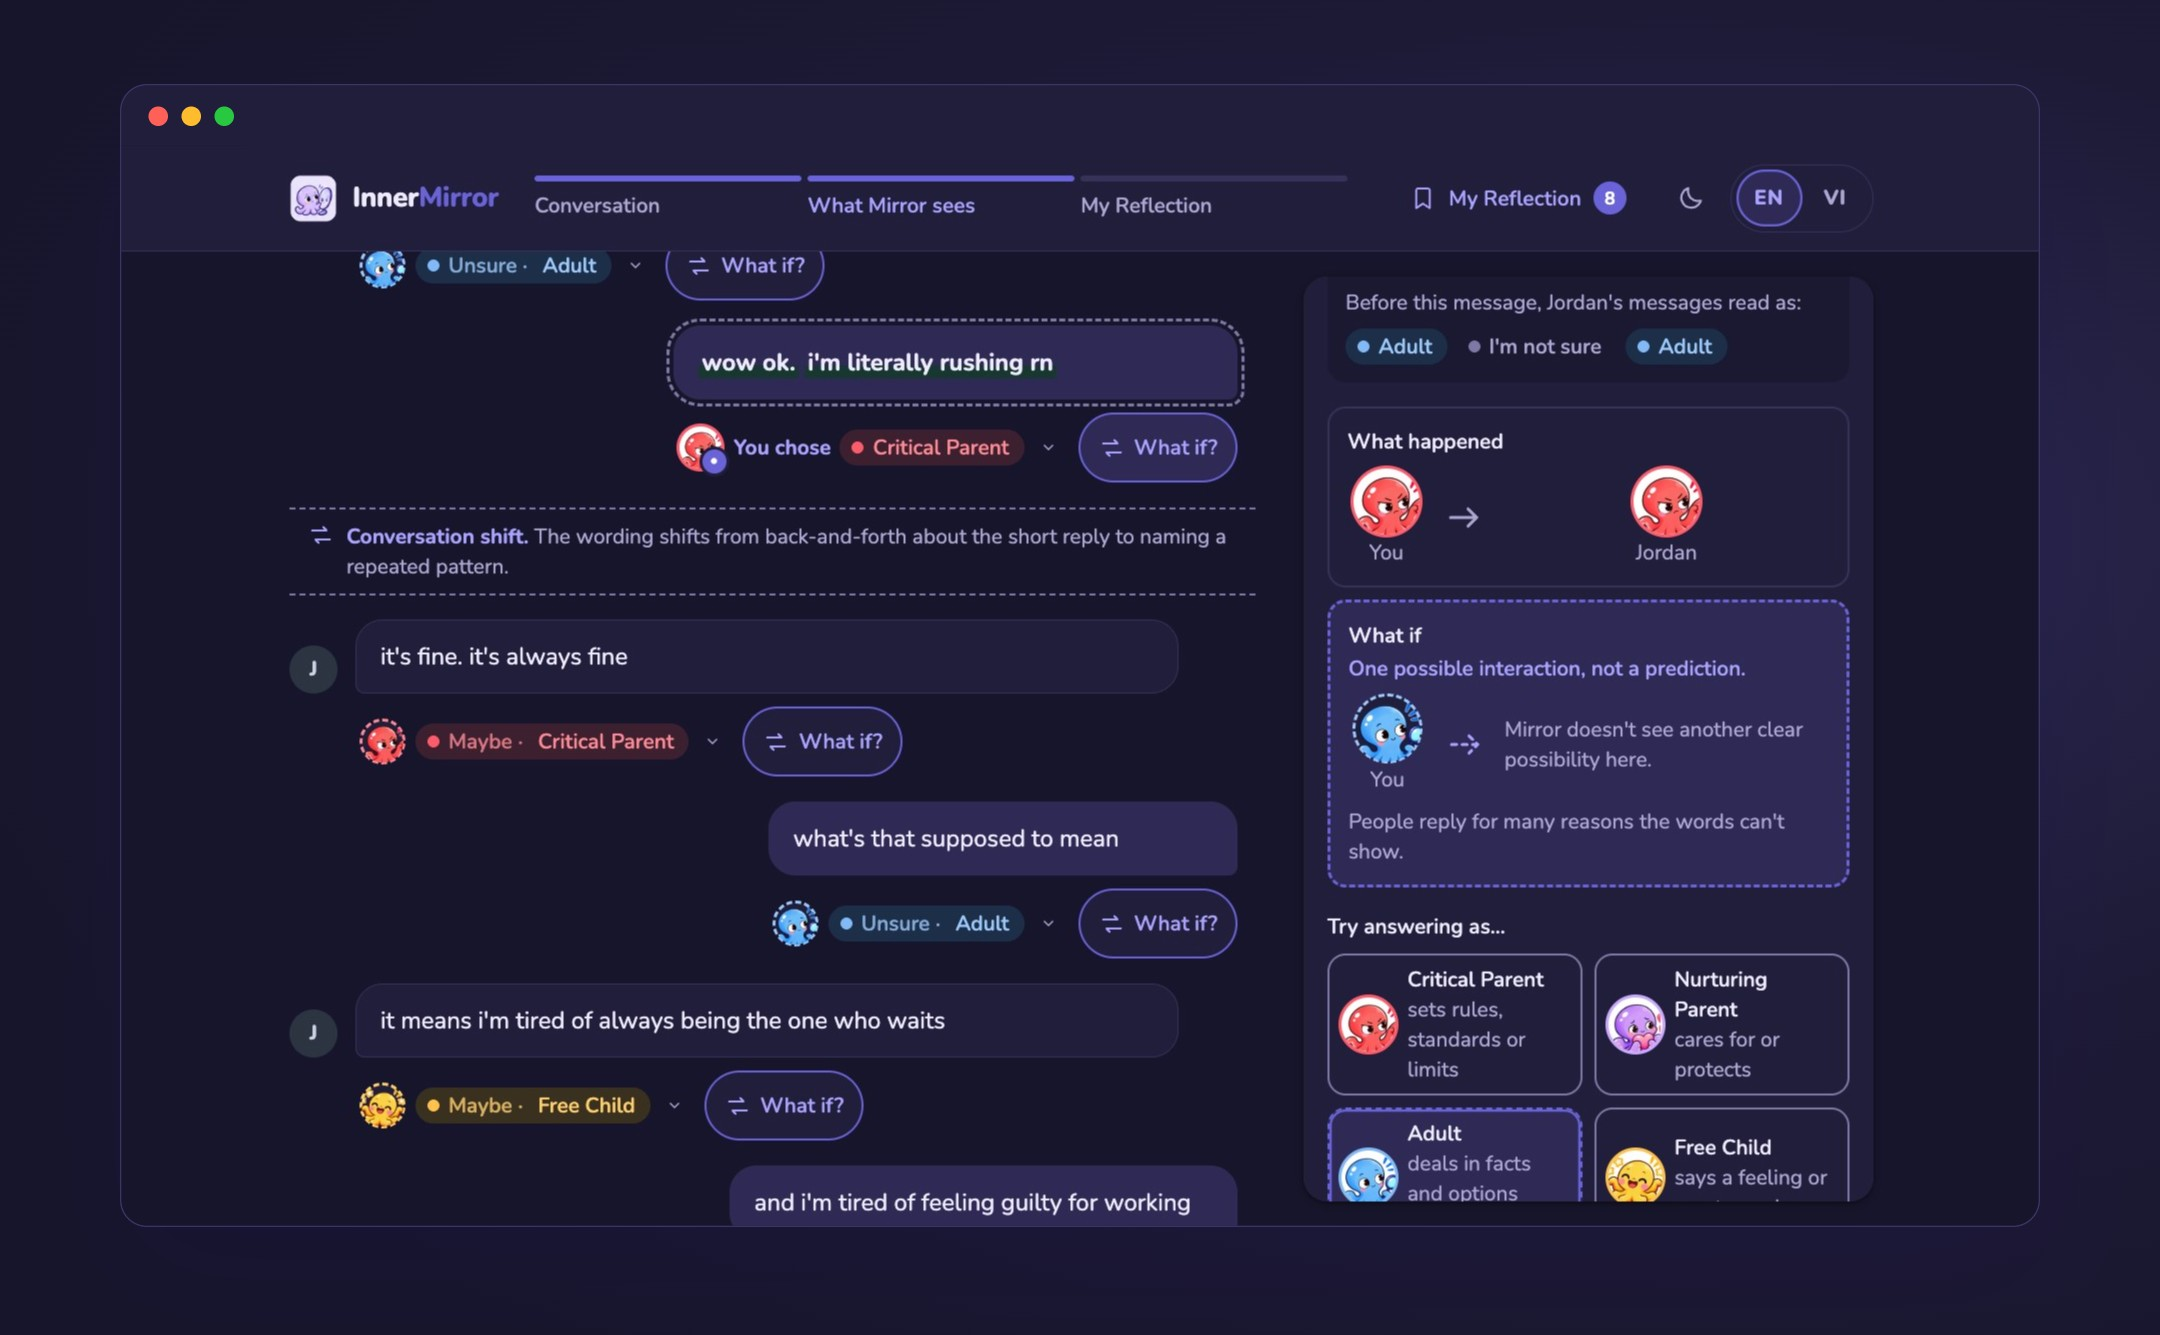
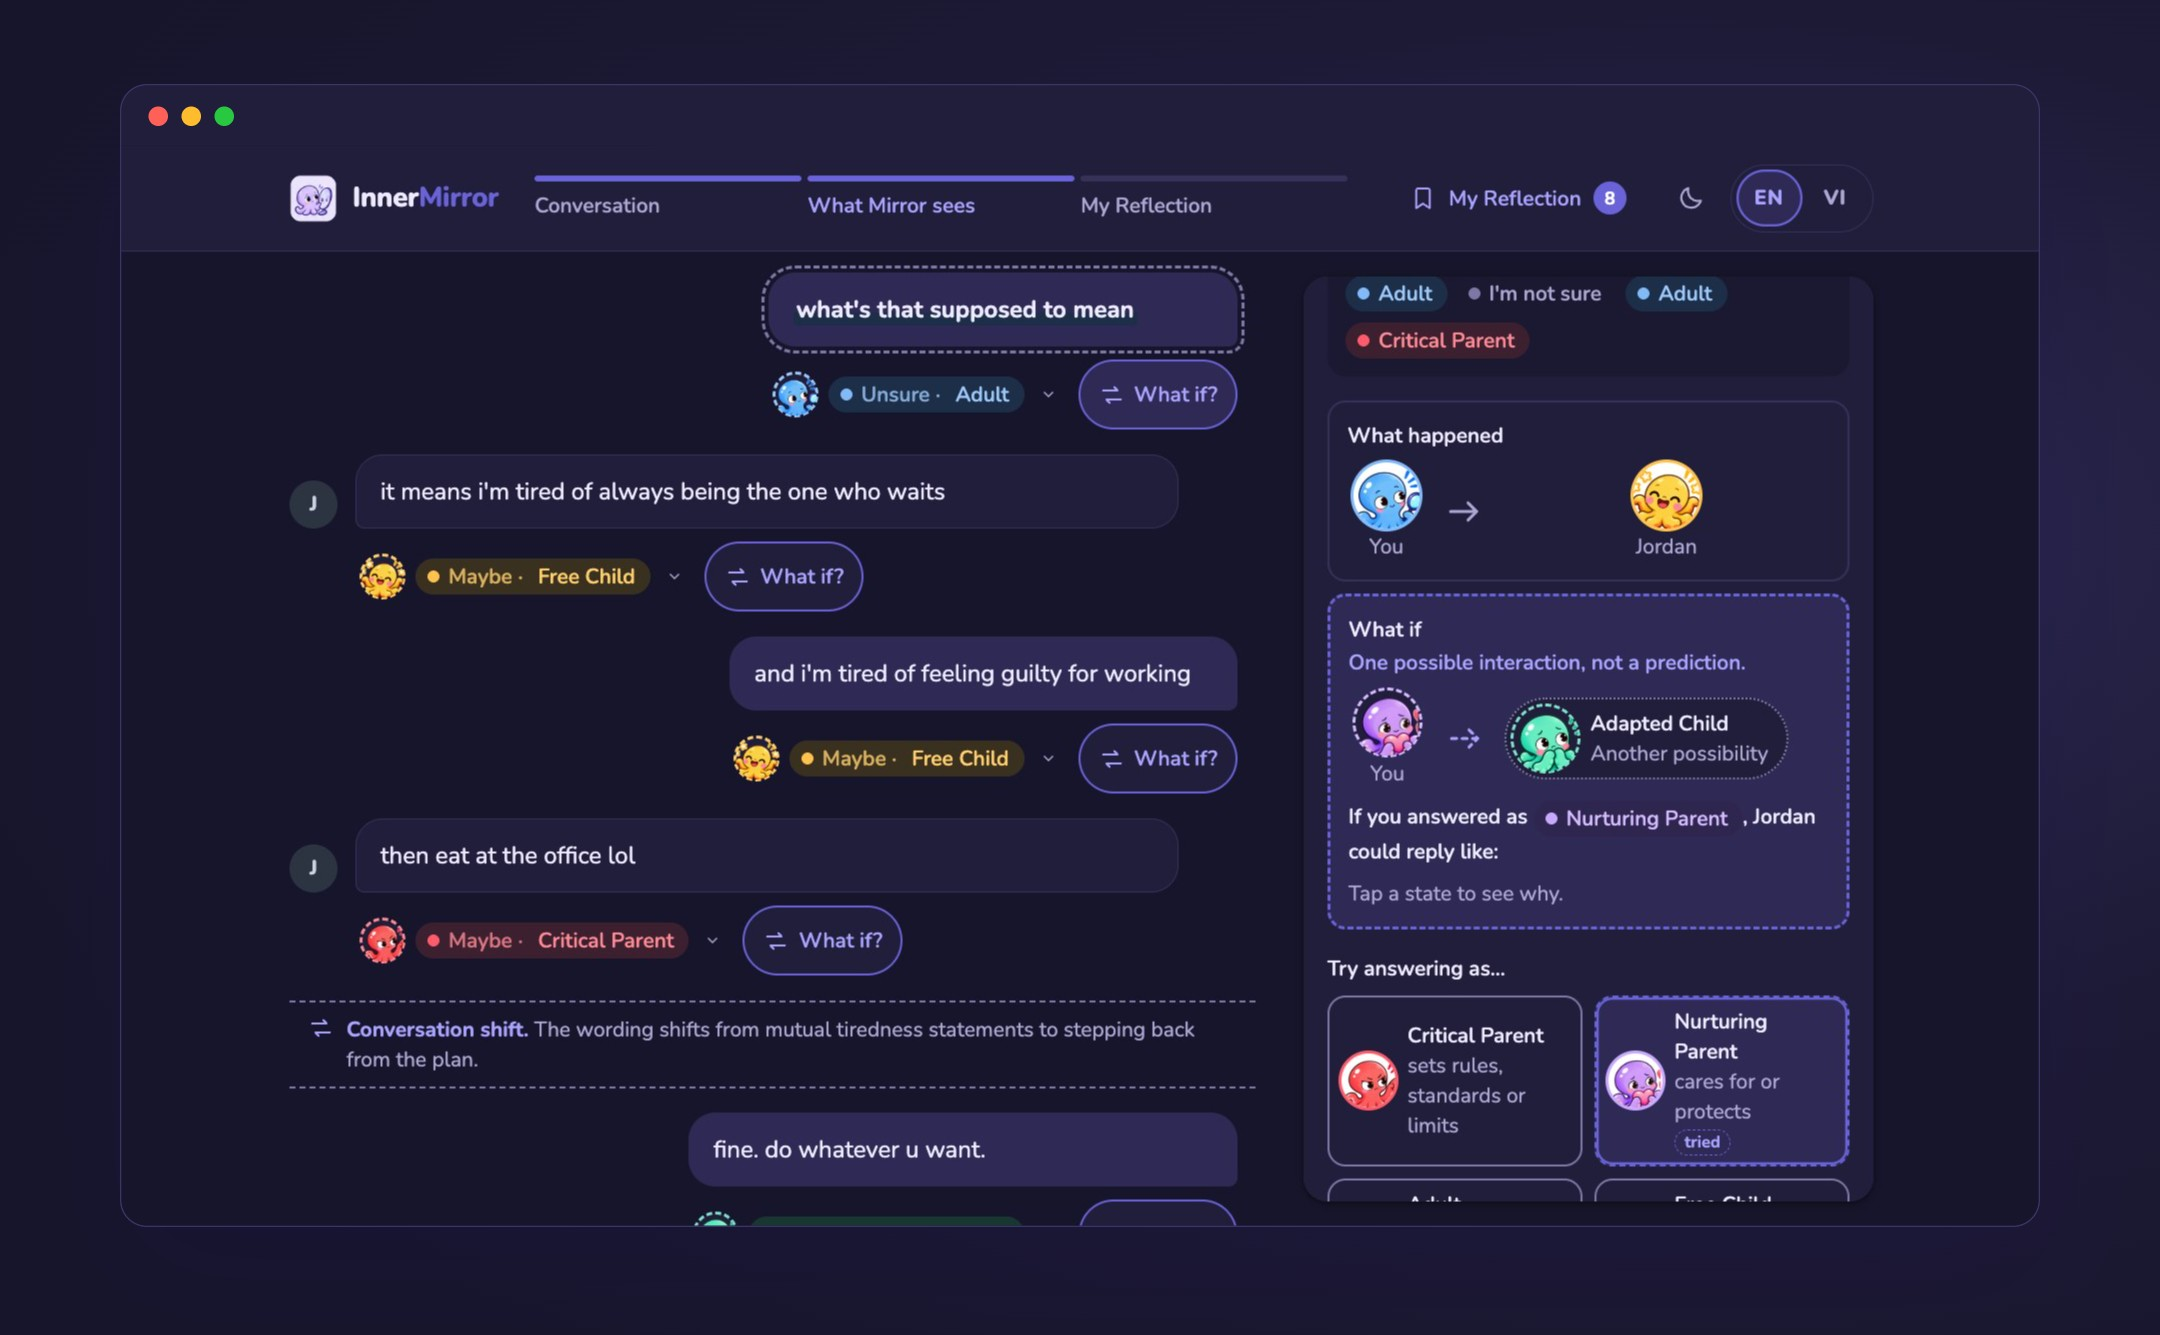
README + docs: What if? from the live D6 take; film final v1 record

diff --git a/TODO.md b/TODO.md
@@ -6,6 +6,7 @@ Session state and next actions. Stable rules live in `CLAUDE.md`. Overwrite this
 **Phase 1 — Functional MVP, UAT round 4 (CONDITIONAL GO, 2026-11-01).** Plan and decisions: `docs/UAT_EXECUTION_PLAN.md` §7. Feature freeze Nov 3, 18:00 ICT; internal submit Nov 4, 22:00 ICT. Everything is local commits: nothing pushed or deployed since the protected Preview.
 
 ## Current status (2026-11-01, Founder UAT fix sprint)
+- **Film final v1 (2026-11-02):** `design/film/public/out/innermirror-final-v1.mp4`, D6 What if? re-shot live (NP → Adapted Child), real URL, scratch voice + placeholder music; Founder review before submit. Header-overlap bug fixed (`9626266`, not deployed). Backups: private repo `innermirror-film-takes`. Details: screenplay "Final v1".
 - **Dark Mode demo take `dark1` (2026-11-02):** one source for the film (S6 + donut) and the README (GIF, phones, What if?); film stage/end card now night palette; S2 states follow dark1. Rough cut: `design/film/public/out/innermirror-roughcut-dark.mp4`. Live $0.116 (2 takes, 6 calls). Details: `docs/DEMO_VIDEO_SCREENPLAY.md` "Rough cut V1.1".
 - **README showcase (2026-11-02):** hero, five voices, live-run GIF, phone journey, What if?, designed Muse Spark workflow, all light/dark; real app screens only (rebuild: `design/readme/capture.mjs` + `compose.mjs`, $0). Render checked on GitHub at 1280 light/dark and 390.
 - **Submission readiness (2026-11-02):** README rewritten (accurate Meta use, no Muse Image), copy-ready form answers in `docs/HACKATHON_SUBMISSION.md` (draft, Founder review). Security audit of all history PASS: no keys/tokens/.env/real conversations; commit author email rewritten to the GitHub noreply (Founder decision; old→new hashes in `docs/commit-map.txt`). **Public repo: https://github.com/TaChillChill/InnerMirror** (pushed and made public 2026-11-02 with Founder approval; local branch `backup/pre-email-rewrite` keeps the old history, never push it). Live re-check on Production: 1 analyze + 1 What if?, both 200, ≈ $0.035.
@@ -19,7 +20,7 @@ Session state and next actions. Stable rules live in `CLAUDE.md`. Overwrite this
 - **Founder UAT 12 issues fixed (local commits, not pushed):** logo `791ee7b`, cloud `810a381`, input/review/observation/title/Direction `28253fa`. Status per issue, why approved feedback was missed, re-test guide: `docs/UAT_FIX_SPRINT.md`.
 - **Earlier sprint** (all approved pre-submission items): `docs/RELEASE_READINESS.md` (§5 iPhone checklist updated for the fixes).
 - **Recommendation:** Founder re-tests the three journeys (`UAT_FIX_SPRINT.md` §6); then Preview deploy (needs approval).
-- **Spend:** 10-screenshot live test $0.215 (server log, 10 calls); demo-film live take $0.0588; submission re-check $0.035; Dark Mode takes $0.116. Project ≈ **$5.38 of $6** (ledger $4.11 + app/Preview/film/10-shots/Prod smoke ≈ $1.11, partly estimated).
+- **Spend:** 10-screenshot live test $0.215 (server log, 10 calls); demo-film live take $0.0588; submission re-check $0.035; Dark Mode takes $0.116; D6 probe + take $0.031. Project ≈ **$5.41 of $6** (ledger $4.11 + app/Preview/film/10-shots/Prod smoke ≈ $1.11, partly estimated).
 - **Local server:** `npx next start -p 3123` reads `.env.local` (live calls). For mocked e2e, run it with `META_API_KEY=` (empty). Live UAT: `APP_SPEND_CAP_USD=0.4 npx next start -p 3123` + `node scripts/e2e/live-uat.mjs` (updated for reference-only Direction, not re-run).
 
 ## Next actions (max 5)

diff --git a/docs/DEMO_VIDEO_SCREENPLAY.md b/docs/DEMO_VIDEO_SCREENPLAY.md
@@ -2,6 +2,16 @@
 
 Status: **Rough cut V1 rendered (Phase C, 2026-11-02), for Founder review.** MP4: `design/film/public/out/innermirror-roughcut.mp4` (git-ignored). Viewer: `design/film/` (`npm run dev` → http://127.0.0.1:5174). Conversation A **locked**. No app code, prompt or schema changed.
 
+## Final v1 (2026-11-02, Founder decisions on V1.1)
+- **MP4:** `design/film/public/out/innermirror-final-v1.mp4` (180 s, 1080p30, git-ignored). Viewer as before.
+- **D6 re-shot (take `dark1wi`):** same session, dark1's real extract + analysis replayed (identical screens), What if? called live on "what's that supposed to mean" as **Nurturing Parent** → "Jordan could reply like: **Adapted Child** · Another possibility" (context basis; Adult kept as the pattern). Found with one direct probe; one live take. Caption 1 now "Muse looks at the moment and Jordan's earlier words for replies that could fit." (the shown possibility is context-based). S6 still 70 s: the scroll to the message is sped 1.5× and labelled.
+- **Kept:** S2 follows dark1; "Me" as in the app.
+- **End card:** innermirror-flame.vercel.app.
+- **Voice:** the audio session's script (`src/narration.ts`) rendered as a **scratch** voice (macOS `say`, Samantha, `record/voice-say.mjs`, $0) and mixed in `src/Voice.tsx`; beds duck to 45% under each line (voice ≈ −17 LUFS vs beds −22 to −32). Replace the WAVs with the chosen TTS, same ids. The "Transactional Analysis…" line ends 0.9 s into the first mascot chime.
+- **Music:** still the synthesized placeholder beds; licensed tracks to come.
+- **App fix:** state-cloud mascots no longer draw over the sticky header (CSS isolation, e2e `h1-header`). It wasn't visible in the film's framing, so no re-take.
+- **Backups:** `~/InnerMirror-backups/` and the private release `TaChillChill/innermirror-film-takes` (`takes-2026-11-02`: dark1, dark1wi, live1 + SHA256SUMS; restore verified for dark1).
+
 ## Rough cut V1.1: Dark Mode take (2026-11-02, Founder request)
 - **New live take `dark1`:** the app in Dark Mode (its default), real app + real Muse, 3 calls, $0.0592. Recorded at 1920 × 1080 (Chrome device scale 1.5; the app's layout is unchanged at 1280 × 720 CSS), so rough-cut point 5 below is fixed. Muse's responses are kept in `design/film/public/take/dark1/api.json`. A second take (`dark2`, $0.0568) gave the same What if? outcome and was discarded.
 - **Film styling only:** the S6 stage, footage frame, tap rings, the S8 donut stage and the S9 end card moved from light lavender to the film's night palette, so motion → product → motion stays one world. The end card sets the app mark + wordmark (the logo file has a white matte). Structure, timing (S6 still 68–138 s; D1's labelled "sped up" wait absorbs Muse's faster read) and captions are unchanged.

diff --git a/README.md b/README.md
@@ -74,12 +74,12 @@ Everyone speaks from all five. A state belongs to a **message**, never to a pers
 
 <picture>
   <source media="(prefers-color-scheme: dark)" srcset="design/readme/img/whatif-dark.jpg">
-  <img alt="The What if panel for “wow ok. i'm literally rushing rn”: what happened (You as Critical Parent, Jordan as Critical Parent), and, exploring an Adult answer, Mirror saying it doesn't see another clear possibility." src="design/readme/img/whatif-light.jpg" width="100%">
+  <img alt="The What if panel for “what's that supposed to mean”: what happened (You as Adult, Jordan as Free Child), and if you had answered as Nurturing Parent, Jordan could reply as Adapted Child: another possibility, labelled one possible interaction, not a prediction." src="design/readme/img/whatif-light.jpg" width="100%">
 </picture>
 
-Pick any message and an ego state it could have come from. Mirror looks only at the other person's **earlier** words and shows up to two states they might plausibly answer from, each tied to quotes. **It writes no replies and predicts nothing.** And when the words don't point anywhere clear, it says so, as in this live run, instead of inventing an answer.
+Pick any message and an ego state it could have come from. Mirror looks only at the other person's **earlier** words and shows up to two states they might plausibly answer from, each tied to quotes. **It writes no replies and predicts nothing.** Here, answering “what's that supposed to mean” as Nurturing Parent instead could have met an Adapted Child reply: one possible interaction, not a forecast. When the words don't point anywhere clear, Mirror says so instead of inventing an answer.
 
-<sub>Real screens of the app, all from one Dark Mode live run with Muse Spark (2 Nov 2026, synthetic chat). The GIF and "What if…?" are frames of that recording; the phone screens are the same build at phone size, replaying that run's Muse responses unedited. My Reflection uses synthetic saved history.</sub>
+<sub>Real screens of the app in Dark Mode, from the same live session as our demo video (2 Nov 2026, synthetic chat). The GIF is that recording. "What if…?" was recorded right after with that run's analysis replayed and the What if? call made live. The phone screens are the same build at phone size, replaying that run's Muse responses unedited. My Reflection uses synthetic saved history.</sub>
 
 ## How Muse Spark powers InnerMirror
 
